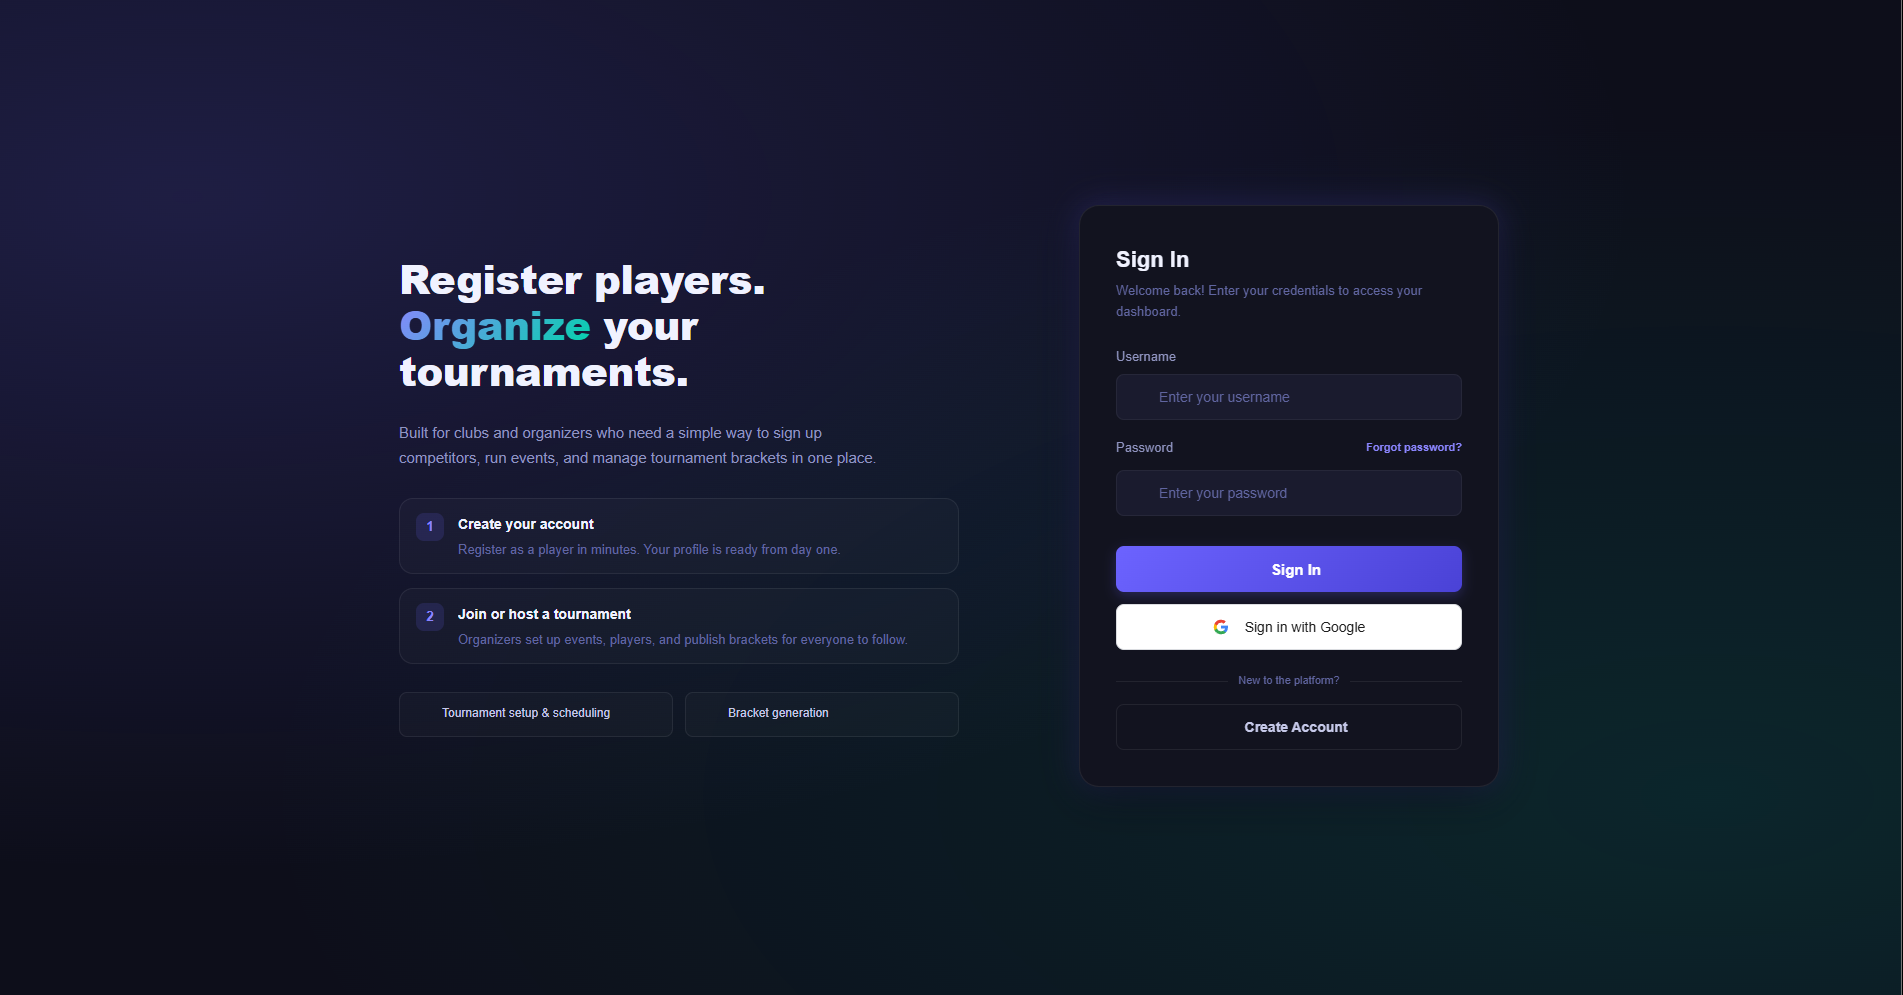
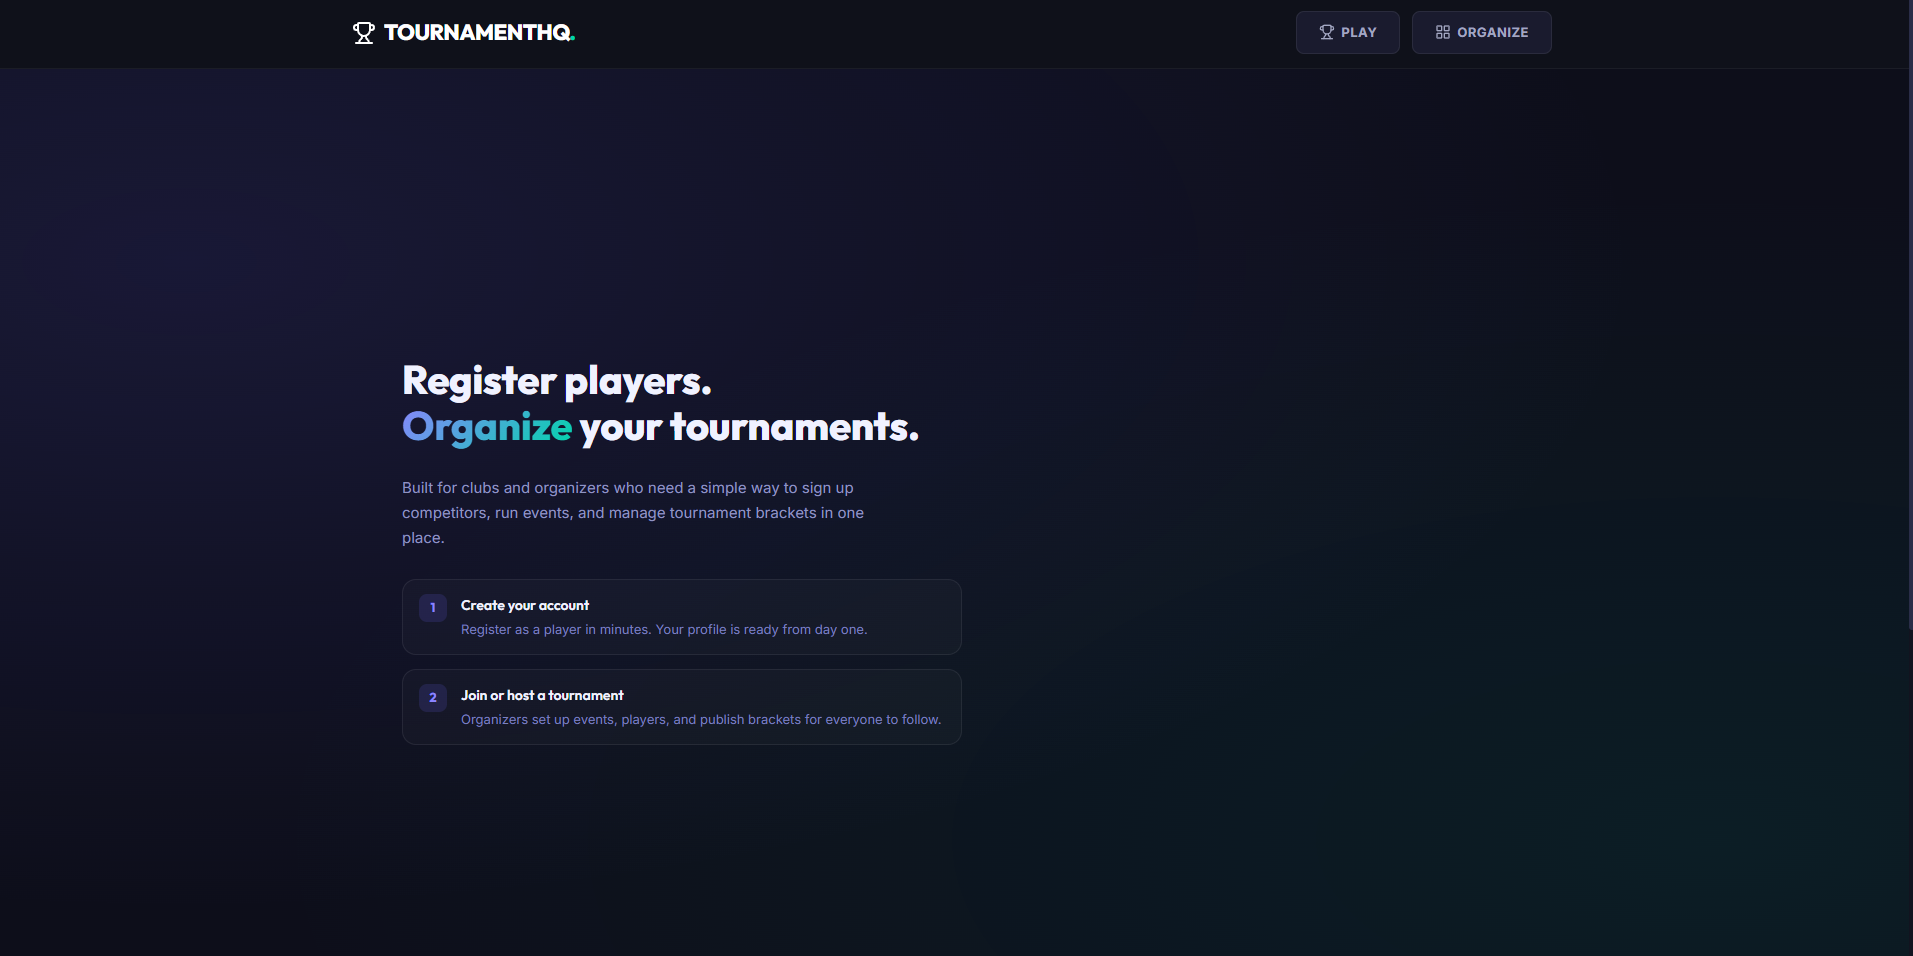
add

diff --git a/script.js b/script.js
@@ -212,11 +212,11 @@ const projectData = {
         githubUrl: '#'
     },
     2: {
-        title: 'Tournament Manager',
+        title: 'TournamentHQ',
         description: 'A web-based tool for organizing and managing tournament brackets, scores, and schedules in one place.',
         technologies: ['JavaScript', 'PHP', 'MySQL'],
         features: ['Bracket generation', 'Score tracking', 'Team management', 'Match scheduling'],
-        liveUrl: 'https://tournamentmanager.free.nf/',
+        liveUrl: 'https://tournamenthq.free.nf/',
         githubUrl: '#'
     },
     3: {